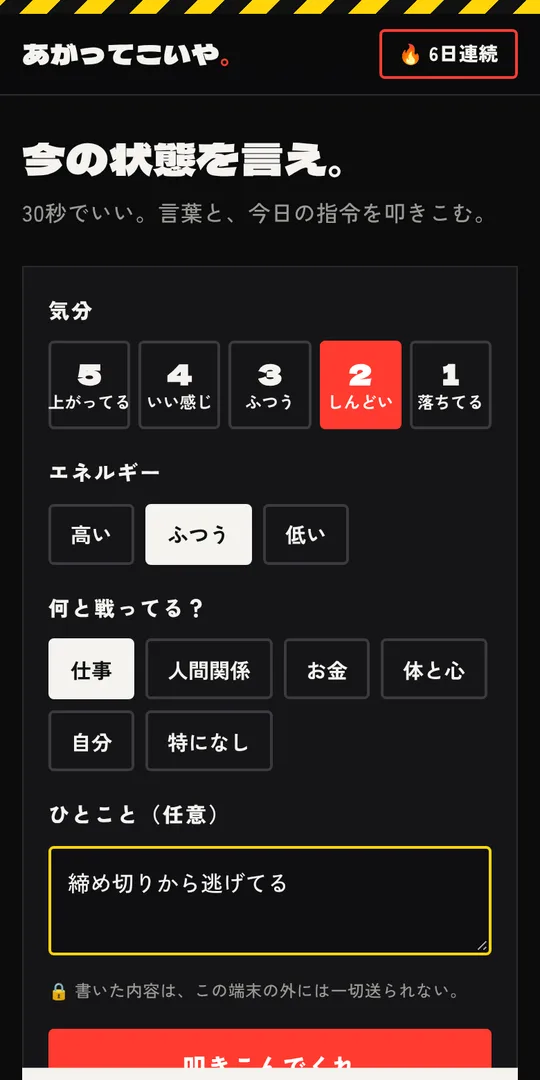
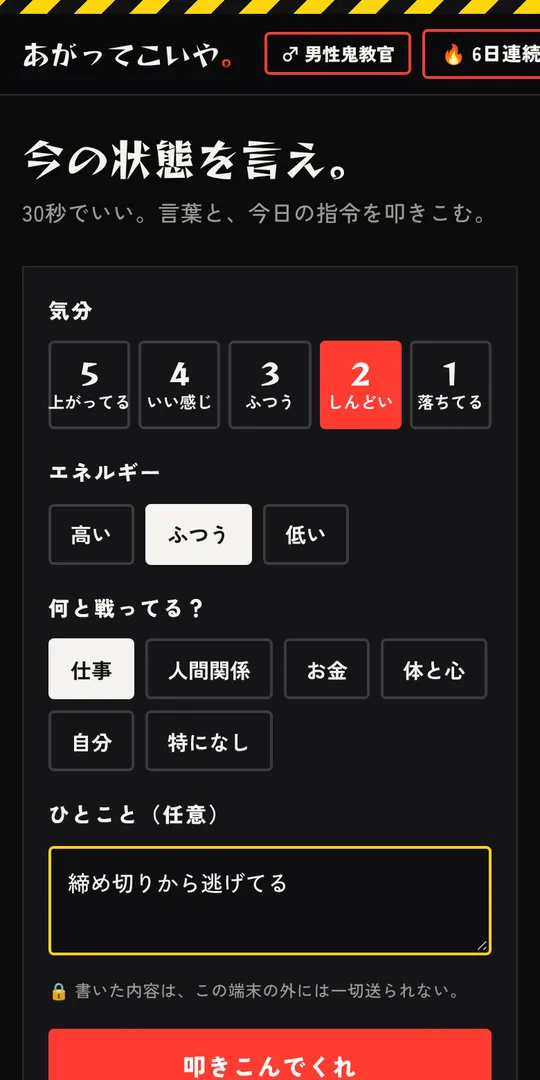
見出しの文字を Reggae One に（共有画像・機能の画面も作り直し）
Claude-Session: https://claude.ai/code/session_01LKWKTwSbQwUsRdEYxN7hWu

diff --git a/sw.js b/sw.js
@@ -1,5 +1,5 @@
 // オフライン対応：アプリ本体をキャッシュ（同一オリジンのみ）
-const CACHE = 'agattekoiya-v4';
+const CACHE = 'agattekoiya-v5';
 const ASSETS = [
   './', './index.html', './app.html', './safety.html', './privacy.html', './css/style.css', './manifest.webmanifest', './icons/icon.svg',
   './js/app.js','./js/data/corpus/index.js','./js/data/corpus/v1.js','./js/data/corpus/v1_1.js','./js/data/corpus/v2.js','./js/data/corpus/v2_1.js','./js/data/emotions.js','./js/data/hotlines.js','./js/data/patterns.js','./js/data/words.js','./js/engine.js','./js/coaches.js','./js/coach-ui.js','./js/feedback.js','./js/episode-ui.js','./js/data/episodes.js','./js/hard.js','./js/lp.js','./js/rag.js','./js/safety-ui.js','./js/storage.js','./js/text.js',

diff --git a/privacy.html b/privacy.html
@@ -9,7 +9,7 @@
   <link rel="icon" href="icons/icon.svg" type="image/svg+xml">
   <link rel="preconnect" href="https://fonts.googleapis.com">
   <link rel="preconnect" href="https://fonts.gstatic.com" crossorigin>
-  <link href="https://fonts.googleapis.com/css2?family=Dela+Gothic+One&family=Zen+Kaku+Gothic+New:wght@500;700;900&display=swap" rel="stylesheet">
+  <link href="https://fonts.googleapis.com/css2?family=Reggae+One&family=Zen+Kaku+Gothic+New:wght@500;700;900&display=swap" rel="stylesheet">
   <link rel="stylesheet" href="css/style.css">
 </head>
 <body>

diff --git a/safety.html b/safety.html
@@ -9,7 +9,7 @@
   <link rel="icon" href="icons/icon.svg" type="image/svg+xml">
   <link rel="preconnect" href="https://fonts.googleapis.com">
   <link rel="preconnect" href="https://fonts.gstatic.com" crossorigin>
-  <link href="https://fonts.googleapis.com/css2?family=Dela+Gothic+One&family=Zen+Kaku+Gothic+New:wght@500;700;900&display=swap" rel="stylesheet">
+  <link href="https://fonts.googleapis.com/css2?family=Reggae+One&family=Zen+Kaku+Gothic+New:wght@500;700;900&display=swap" rel="stylesheet">
   <link rel="stylesheet" href="css/style.css">
 </head>
 <body>

diff --git a/app.html b/app.html
@@ -11,7 +11,7 @@
   <link rel="apple-touch-icon" href="icons/icon-192.png">
   <link rel="preconnect" href="https://fonts.googleapis.com">
   <link rel="preconnect" href="https://fonts.gstatic.com" crossorigin>
-  <link href="https://fonts.googleapis.com/css2?family=Dela+Gothic+One&family=Zen+Kaku+Gothic+New:wght@500;700;900&display=swap" rel="stylesheet">
+  <link href="https://fonts.googleapis.com/css2?family=Reggae+One&family=Zen+Kaku+Gothic+New:wght@500;700;900&display=swap" rel="stylesheet">
   <link rel="stylesheet" href="css/style.css">
 </head>
 <body>

diff --git a/index.html b/index.html
@@ -20,7 +20,7 @@
   <link rel="apple-touch-icon" href="icons/icon-192.png">
   <link rel="preconnect" href="https://fonts.googleapis.com">
   <link rel="preconnect" href="https://fonts.gstatic.com" crossorigin>
-  <link href="https://fonts.googleapis.com/css2?family=Dela+Gothic+One&family=Zen+Kaku+Gothic+New:wght@500;700;900&display=swap" rel="stylesheet">
+  <link href="https://fonts.googleapis.com/css2?family=Reggae+One&family=Zen+Kaku+Gothic+New:wght@500;700;900&display=swap" rel="stylesheet">
   <link rel="stylesheet" href="css/style.css">
 </head>
 <body>

diff --git a/css/style.css b/css/style.css
@@ -9,7 +9,7 @@
   --red-deep: #c4161c;
   --yellow: #ffd60a;
   --font: 'Zen Kaku Gothic New', 'Hiragino Kaku Gothic ProN', 'Noto Sans JP', sans-serif;
-  --display: 'Dela Gothic One', 'Zen Kaku Gothic New', sans-serif;
+  --display: 'Reggae One', 'Zen Kaku Gothic New', sans-serif;
   color-scheme: dark;
 }
 * { box-sizing: border-box; }
